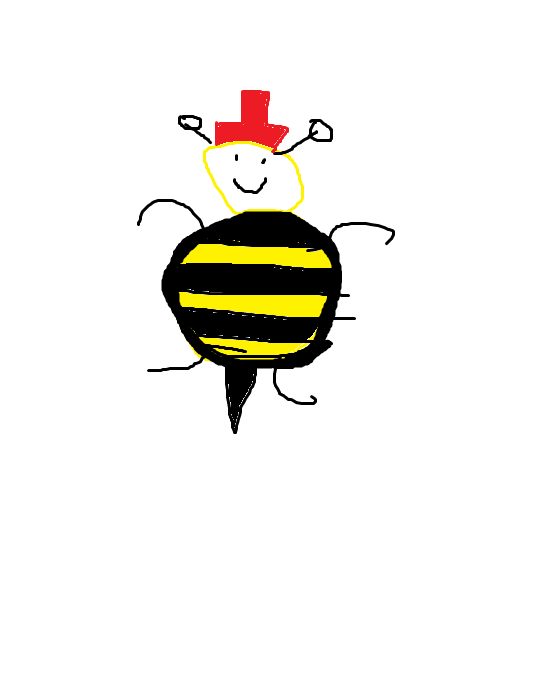
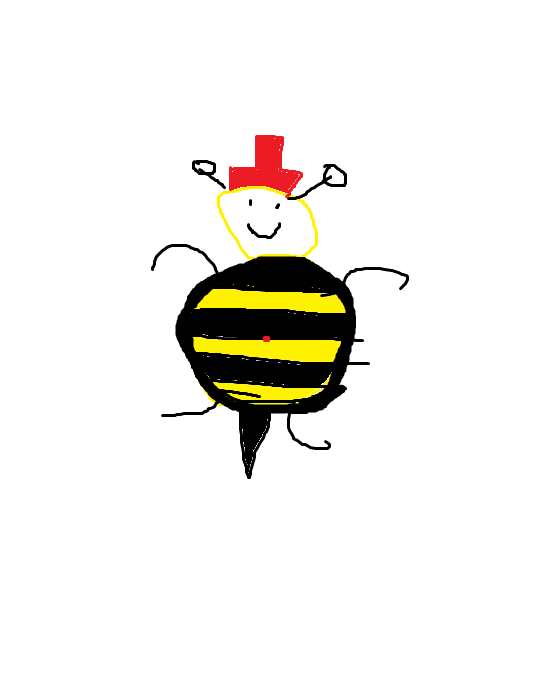
nawet dobrze 2

diff --git a/przeksztalcenia2D/mainwindow.cpp b/przeksztalcenia2D/mainwindow.cpp
@@ -9,7 +9,7 @@ using namespace std;
 MainWindow::MainWindow(QWidget *parent)
     : QMainWindow(parent),
       ui(new Ui::MainWindow),
-      img(new QImage("C:/Users/User/Desktop/przeksztalcenia2D/pszczola.png")),
+      img(new QImage("C:/Users/User/Desktop/grafika/przeksztalcenia2D/pszczola.png")),
       img2(new QImage(*img))
 {
     ui->setupUi(this);
@@ -31,7 +31,9 @@ void MainWindow::paintEvent(QPaintEvent*)
 
 macierz MainWindow::stworzMacierze() //zwracja tablice 3x1 z przesunieciami po x i y tworzenie macierzy z wartosciami juz
 {   
+    std::vector <double>pom1;
     std::vector <double>pom;
+    std::vector <double>pom2;
 
 ////////////////////przesuniecie/////////////////////////////
 
@@ -42,11 +44,11 @@ macierz MainWindow::stworzMacierze() //zwracja tablice 3x1 z przesunieciami po x
 
 ///////////////////rotacja////////////////////////////
 
-    //powrot na dobre miejsce
-    pom={1,0,272,
+    //vector do powrot na dobre miejsce
+    pom1={1,0,272,
          0,1,338,
          0,0,1};
-    wynik=wynik.pomnoz(3,3,pom);
+    wynik=wynik.pomnoz(3,3,pom1);
 
     //rotacja wzgl 0 0
     pom={std::cos(ui->Rotacja->value()),-std::sin(ui->Rotacja->value()),0,
@@ -54,20 +56,17 @@ macierz MainWindow::stworzMacierze() //zwracja tablice 3x1 z przesunieciami po x
          0,0,1};
     wynik = wynik.pomnoz(3,3,pom);
 
-    //translacja do rogu
-    pom={1,0,-272,
+    //vector do translacja do rogu
+    pom2={1,0,-272,
          0,1,-338,
          0,0,1};
-    wynik = wynik.pomnoz(3,3,pom);
+    wynik = wynik.pomnoz(3,3,pom2);
 
 ///////////////////skalowanie////////////////////////////
 
     //powrot na dobre miejsce
 
-    pom={1,0,272,
-         0,1,338,
-         0,0,1};
-    wynik=wynik.pomnoz(3,3,pom);
+    wynik=wynik.pomnoz(3,3,pom1);
 
     //skalowanie wzgledem 0 0
     pom={ui->Skalownie->value()/100.0,0,0,
@@ -77,38 +76,23 @@ macierz MainWindow::stworzMacierze() //zwracja tablice 3x1 z przesunieciami po x
 
     //translacja do rogu
 
-    pom={1,0,-272,
-         0,1,-338,
+    wynik=wynik.pomnoz(3,3,pom2);
+
+
+///////////////////////pochylenie//////////////////////////
+
+    //powrot na dobre miejsce
+    wynik=wynik.pomnoz(3,3,pom1);
+
+    //pochylenie
+    pom={1,ui->horizontalSlider_6->value()/100.0,0,
+         ui->horizontalSlider_7->value()/100.0,1,0,
          0,0,1};
     wynik=wynik.pomnoz(3,3,pom);
 
 
-/////////////////////////////////////////////////
-///////////////////////////////////////////////
-
     //translacja do rogu
-
-//    pom={1,0,272,
-//         0,1,338,
-//         0,0,1};
-
-
-
-//    wynik=wynik.pomnoz(3,3,pom);
-
-    //pochylenie
-//    pom={0,ui->horizontalSlider_6->value()/100.0,0,
-//         ui->horizontalSlider_7->value()/100.0,0,0,
-//         0,0,1};
-//    wynik=wynik.pomnoz(3,3,pom);
-
-    //powrot na dobre miejsce
-
-//    pom={1,0,-272,
-//         0,1,-338,
-//         0,0,1};
-
-//    wynik=wynik.pomnoz(3,3,pom);
+    wynik=wynik.pomnoz(3,3,pom2);
 
 
 /////////////////////////////////////////////////
@@ -155,31 +139,29 @@ void MainWindow::on_GoraDol_valueChanged(int value)
 
 void MainWindow::on_Rotacja_valueChanged(int value)
 {
-    przeksztalcenie = 2;
     przesun();
 }
 
 
 void MainWindow::on_Skalownie_valueChanged(int value)
 {
-    przeksztalcenie = 1;
     przesun();
 }
 
 void MainWindow::on_Skalowanie2_valueChanged(int value)
 {
-    przeksztalcenie = 2;
     przesun();
 }
 
 
 void MainWindow::on_horizontalSlider_6_valueChanged(int value)
 {
-
+    przesun();
 }
 
 
 void MainWindow::on_horizontalSlider_7_valueChanged(int value)
 {
+    przesun();
 }
 
